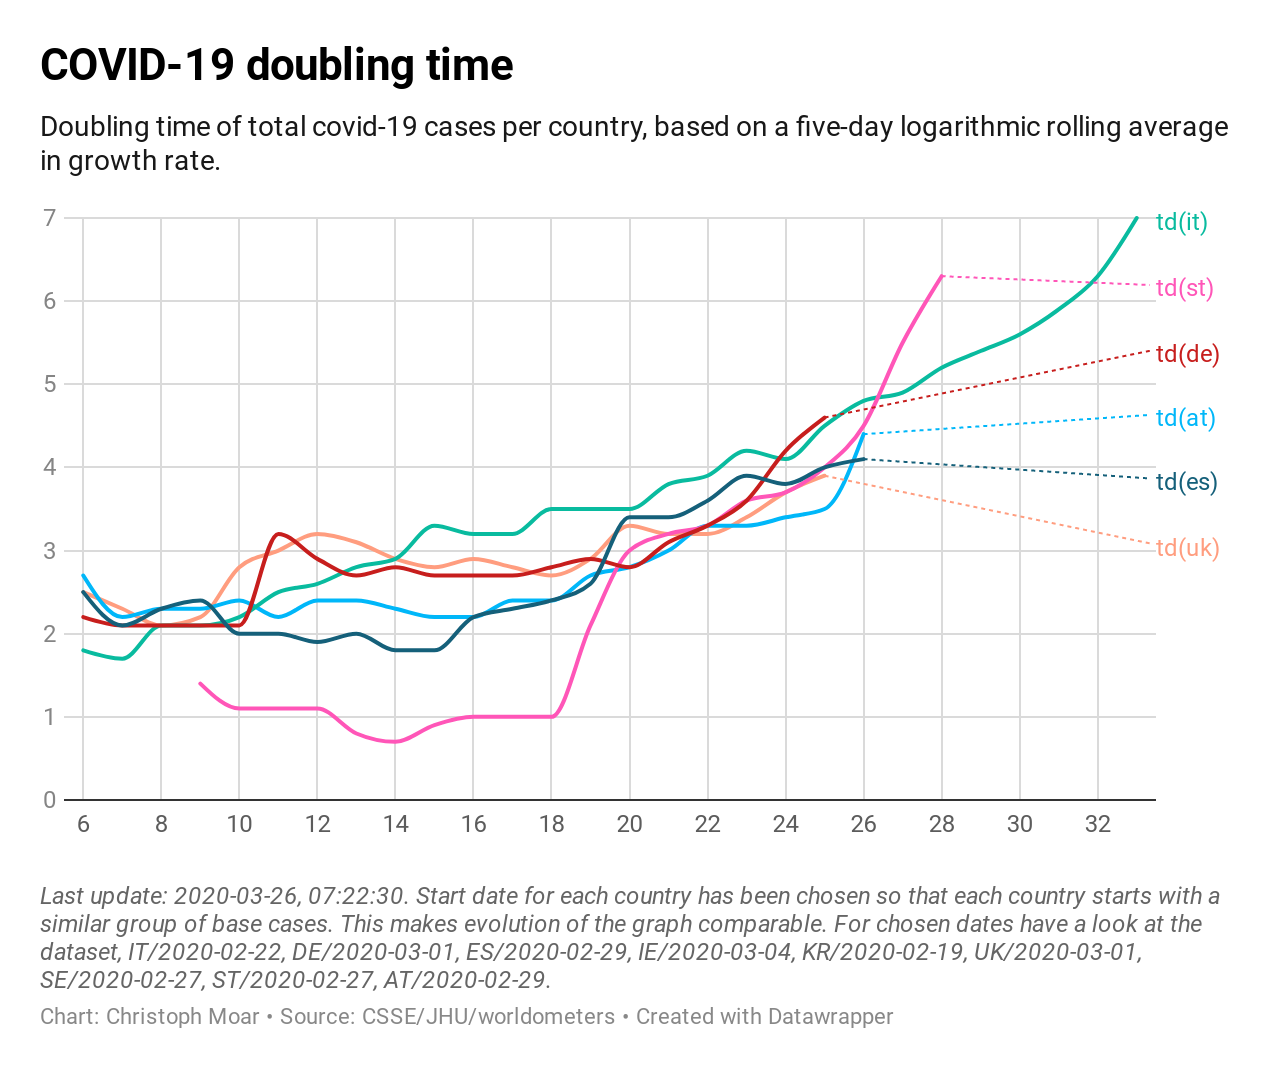
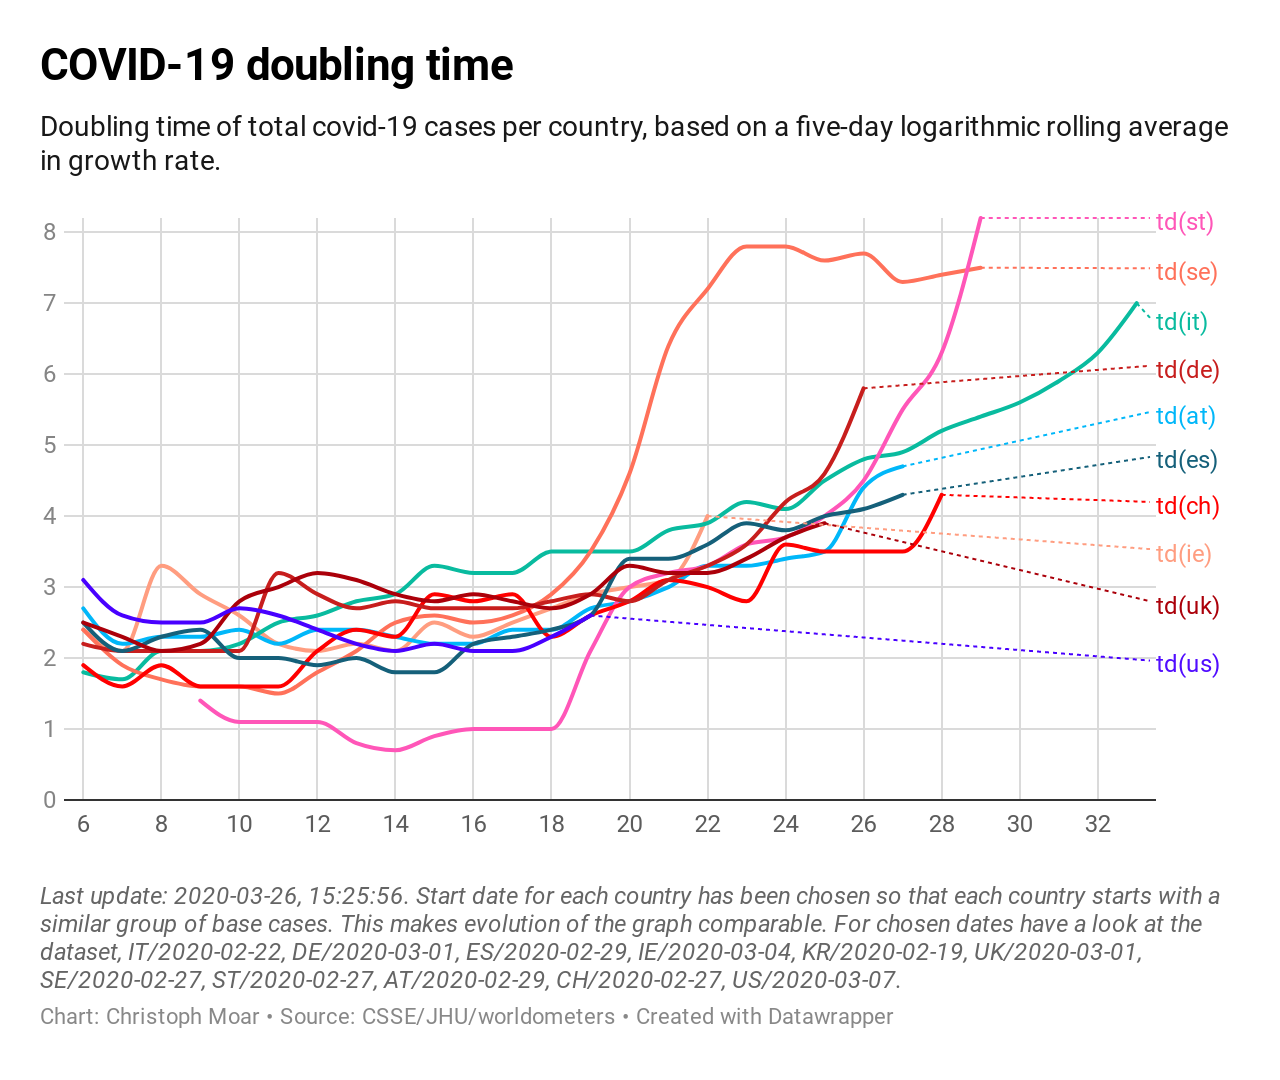
added us and ch

diff --git a/bin/update.js b/bin/update.js
@@ -3,7 +3,7 @@ const got = require('got')
 const fs = require('fs')
 const request = require('request')
 
-const text1 = 'Start date for each country has been chosen so that each country starts with a similar group of base cases. This makes evolution of the graph comparable. For chosen dates have a look at the dataset, IT/2020-02-22, DE/2020-03-01, ES/2020-02-29, IE/2020-03-04, KR/2020-02-19, UK/2020-03-01, SE/2020-02-27, ST/2020-02-27, AT/2020-02-29.'
+const text1 = 'Start date for each country has been chosen so that each country starts with a similar group of base cases. This makes evolution of the graph comparable. For chosen dates have a look at the dataset, IT/2020-02-22, DE/2020-03-01, ES/2020-02-29, IE/2020-03-04, KR/2020-02-19, UK/2020-03-01, SE/2020-02-27, ST/2020-02-27, AT/2020-02-29, CH/2020-02-27, US/2020-03-07.'
 const text2 = 'Please also note that comparing total recorded case numbers might be misleading, since they do not account for unreported/undetected cases (dark numbers). This factor is likely different in each country, due to the different testing policies. Comparing slope changes - and not total figures - is the main point in this chart.'
 
 const DW_TOKEN = process.env.DW_TOKEN
